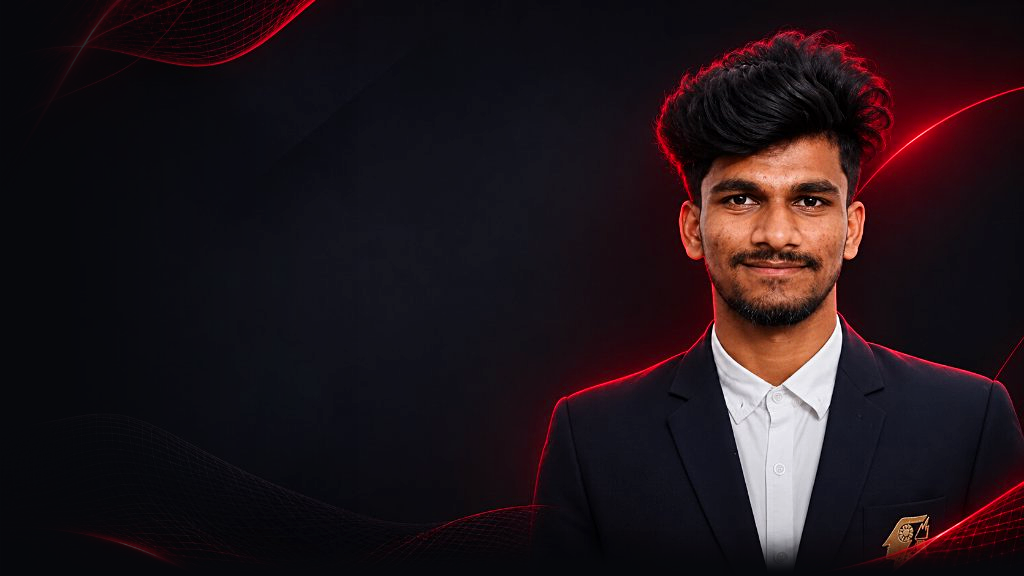
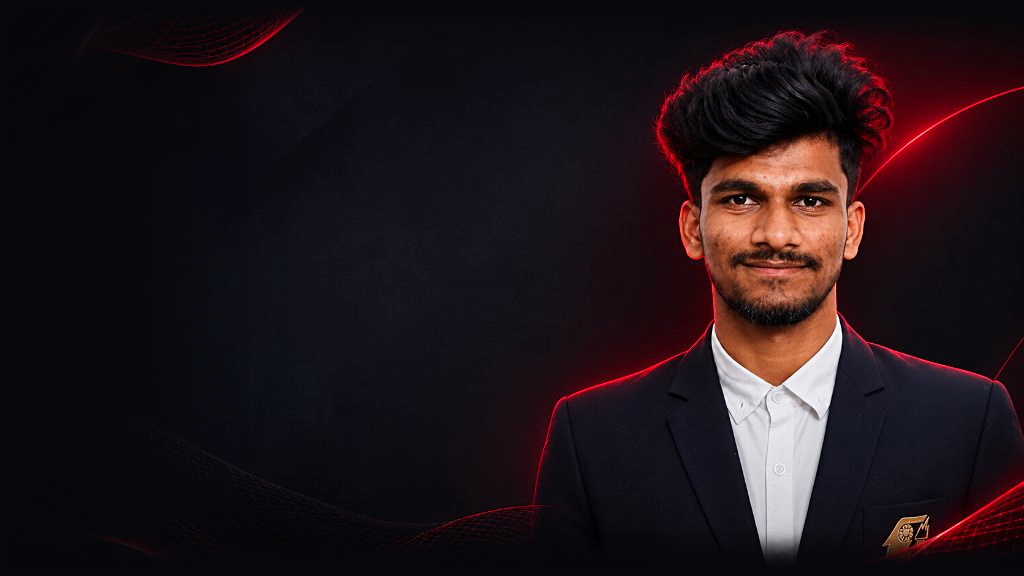
fix(hero): eliminate rectangular box and seamlessly blend full-bleed portrait background

diff --git a/src/components/hero/HeroSection.tsx b/src/components/hero/HeroSection.tsx
@@ -33,8 +33,33 @@ export const HeroSection: React.FC = () => {
   return (
     <section id="hero" className="relative min-h-screen flex flex-col justify-between pt-28 pb-12 overflow-hidden bg-[#07080C] bg-web-lattice">
       
-      {/* 1. Deep 3D Interactive Web Canvas Background (Placed behind portrait so zero lines cross face!) */}
-      <div className="absolute inset-0 z-0 pointer-events-none opacity-40 lg:opacity-50">
+      {/* 1. Developer Cyber Portrait Background (Full bleed, seamless integration, zero hard box edges) */}
+      <div className="absolute inset-0 z-0 overflow-hidden pointer-events-none">
+        <img
+          src="/hero-portrait-clean.png"
+          alt="Boya Saikiran - Cyber Developer Portrait Background"
+          className="w-full h-full object-cover object-[75%_center] lg:object-right filter contrast-[1.05] brightness-[1.0] transition-transform duration-700"
+          style={{
+            maskImage: 'linear-gradient(to right, transparent 0%, rgba(0,0,0,0.4) 20%, rgba(0,0,0,0.9) 45%, black 100%), linear-gradient(to bottom, transparent 0%, black 12%, black 85%, transparent 100%)',
+            WebkitMaskImage: 'linear-gradient(to right, transparent 0%, rgba(0,0,0,0.4) 20%, rgba(0,0,0,0.9) 45%, black 100%), linear-gradient(to bottom, transparent 0%, black 12%, black 85%, transparent 100%)',
+            maskComposite: 'intersect',
+            WebkitMaskComposite: 'destination-in',
+          }}
+        />
+        {/* Soft edge-fading vignettes ensuring seamless blending with #07080C background */}
+        <div className="absolute inset-0 bg-gradient-to-r from-[#07080C] via-[#07080C]/85 to-transparent lg:via-[#07080C]/55 pointer-events-none" />
+        <div className="absolute inset-x-0 top-0 h-36 bg-gradient-to-b from-[#07080C] via-[#07080C]/70 to-transparent pointer-events-none" />
+        <div className="absolute inset-x-0 bottom-0 h-40 bg-gradient-to-t from-[#07080C] via-[#07080C]/85 to-transparent pointer-events-none" />
+      </div>
+
+      {/* 2. Interactive 3D Spider-Web Lattice (Framed behind hero text on left/center, smoothly masked so zero lines cross Saikiran's face) */}
+      <div 
+        className="absolute inset-0 z-[1] pointer-events-none opacity-45 lg:opacity-55"
+        style={{
+          maskImage: 'radial-gradient(ellipse at 28% 50%, black 15%, rgba(0,0,0,0.85) 45%, transparent 72%)',
+          WebkitMaskImage: 'radial-gradient(ellipse at 28% 50%, black 15%, rgba(0,0,0,0.85) 45%, transparent 72%)',
+        }}
+      >
         <Suspense fallback={
           <div className="w-full h-full flex items-center justify-center opacity-30">
             <div className="w-96 h-96 rounded-full border border-[#FF3548]/30 animate-pulse" />
@@ -44,23 +69,10 @@ export const HeroSection: React.FC = () => {
         </Suspense>
       </div>
 
-      {/* 2. Cyber Ambient Lighting Effects */}
+      {/* 3. Cyber Ambient Lighting Effects */}
       <div className="absolute top-1/4 left-1/4 w-[500px] h-[500px] bg-[#E32636]/10 rounded-full blur-[140px] pointer-events-none z-[1]" />
-      <div className="absolute bottom-10 right-10 w-[450px] h-[450px] bg-[#FF3548]/12 rounded-full blur-[130px] pointer-events-none z-[1]" />
+      <div className="absolute top-1/4 right-[15%] w-80 h-80 bg-[#FF3548]/15 rounded-full blur-[100px] pointer-events-none mix-blend-screen z-[1]" />
       <div className="absolute inset-0 bg-gradient-to-b from-transparent via-[#E32636]/[0.015] to-transparent pointer-events-none animate-scanline z-[1]" />
-
-      {/* 3. Real Developer Portrait: Boya Saikiran (In FRONT of 3D Web Canvas - crystal-clear face & suit!) */}
-      <div className="absolute right-0 bottom-0 top-16 md:top-20 w-full sm:w-[520px] md:w-[640px] lg:w-[740px] xl:w-[860px] h-[calc(100%-4rem)] pointer-events-none z-[2] flex items-end justify-end overflow-hidden">
-        <div className="relative w-full h-full flex items-end justify-end">
-          <img
-            src="/hero-portrait-clean.png"
-            alt="Boya Saikiran - Cyber Developer Portrait"
-            className="w-full h-full object-cover sm:object-contain object-bottom-right lg:scale-105 xl:scale-110 origin-bottom-right filter contrast-[1.05] brightness-[1.02] drop-shadow-[0_10px_40px_rgba(255,53,72,0.2)] transition-transform duration-700"
-          />
-          {/* Subtle cyber red energetic aura around styled hair and shoulders */}
-          <div className="absolute top-1/4 right-1/4 w-72 h-72 bg-[#FF3548]/20 rounded-full blur-[90px] pointer-events-none mix-blend-screen" />
-        </div>
-      </div>
 
       {/* Main Content Area */}
       <div className="relative z-10 max-w-7xl mx-auto px-4 sm:px-6 lg:px-8 flex-1 flex flex-col justify-center items-center text-center lg:items-start lg:text-left my-auto w-full">
